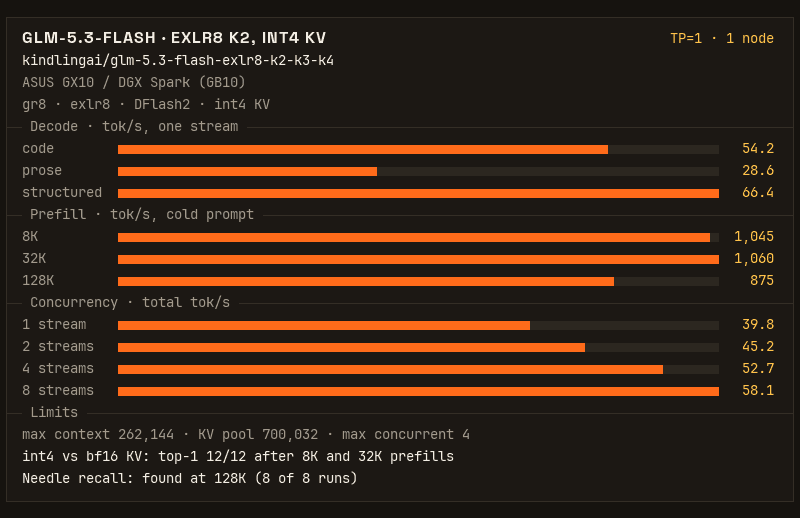
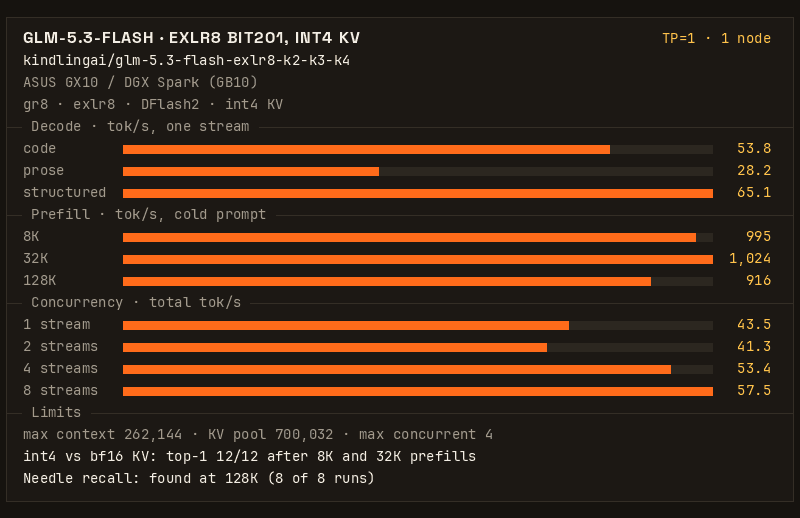
bit201 on the pmcgx release commit (#13)
* bit201 on the release commit with refined pmcgx layers (901ad084)

The image now serves the bit201 manifest: K2, with the 124 routed experts that carry the most routing weight at
tool-call positions at K3, about 0.4 GB more than k2. MODEL moves to 901ad084, the release with layers 3, 20, 43 and 44
in refined pmcgx at every width. On one box, at the image's CAP, SESS and GR8_MEM_MIN, bit201 on 901ad084 decoded at
53.7-54.6 code, 27.6-28.4 prose and 64.5-65.4 structured tok/s against 53.3-53.7, 28.6-28.8 and 64.1-64.2 for bit201 on
main (warm runs). knobs.sh turns a manifest name other than k2-k4 into its path in the model cache, as the two-box
recipe does. VARIANT=k2 keeps the old width.

* Card, GIF and kindling.json from the image t-bit201-1 (bit201 on 901ad084)

One bench run of the image with its defaults on one GB10, 2026-11-08: decode 53.8 code, 28.2 prose, 65.1
structured tok/s; prefill 995, 1,024 and 916 tok/s at 8K, 32K and 128K; 43.5, 41.3, 53.4 and 57.5 tok/s with 1, 2, 4
and 8 streams; the needle found at 128K at seeds 1-8. The smoke test passed 14 of 14.

---------

diff --git a/README.md b/README.md
@@ -5,7 +5,8 @@ If you are an agent booting this for someone, read [AGENTS.md](AGENTS.md) first,
 _**Join our discord to learn more about KindlingAI and `gr8`: https://discord.gg/8EAvYPV2rE**_
 
 GLM-5.3-Flash on one DGX Spark (GB10, 128 GB), served by [gr8](https://github.com/kindlingai/gr8)
-from the K2 width of [kindlingai/glm-5.3-flash-exlr8-k2-k3-k4](https://huggingface.co/kindlingai/glm-5.3-flash-exlr8-k2-k3-k4).
+from the bit201 manifest of [kindlingai/glm-5.3-flash-exlr8-k2-k3-k4](https://huggingface.co/kindlingai/glm-5.3-flash-exlr8-k2-k3-k4):
+K2, with the 124 routed experts that carry the most routing weight at tool-call positions at K3.
 
 ![GLM-5.3-Flash on one GB10: decode, prefill and concurrency](docs/card.png)
 
@@ -98,7 +99,7 @@ can also set in `.env`.
 - `speed` (the default): a request can be up to 262,144 tokens.
 - `context`: one request up to 700,018 tokens. With a `CAP` below 700,032, also set `MAX_MODEL_LEN` to at most `CAP`
   less 14, or the boot stops.
-- `quality`: the same as `speed`. K2 is the one width of the release that fits one box.
+- `quality`: the same as `speed`. K3 and K4 do not fit one box.
 
 If you set `MAX_MODEL_LEN` yourself, `TUNE` leaves it alone.
 

diff --git a/AGENTS.md b/AGENTS.md
@@ -35,7 +35,7 @@ Set the values in `.env` (compose) or with `docker run -e`.
 |---|---|---|
 | `speed` (default) | `MAX_MODEL_LEN=262144` | the settings README.md's numbers were measured with: requests up to 262,144 tokens |
 | `context` | `MAX_MODEL_LEN=700018` | one request up to 700,018 tokens: the 700,032-token pool less DFlash2's 14 guard rows. A request that long leaves little room in the pool, and other requests wait |
-| `quality` | `MAX_MODEL_LEN=262144` | the same as `speed`: K2 is the one width of the release that fits one box, and the image builds only the int4 KV engine |
+| `quality` | `MAX_MODEL_LEN=262144` | the same as `speed`: K3 and K4 do not fit one box, and the image builds only the int4 KV engine |
 
 What else `knobs.sh` does:
 
